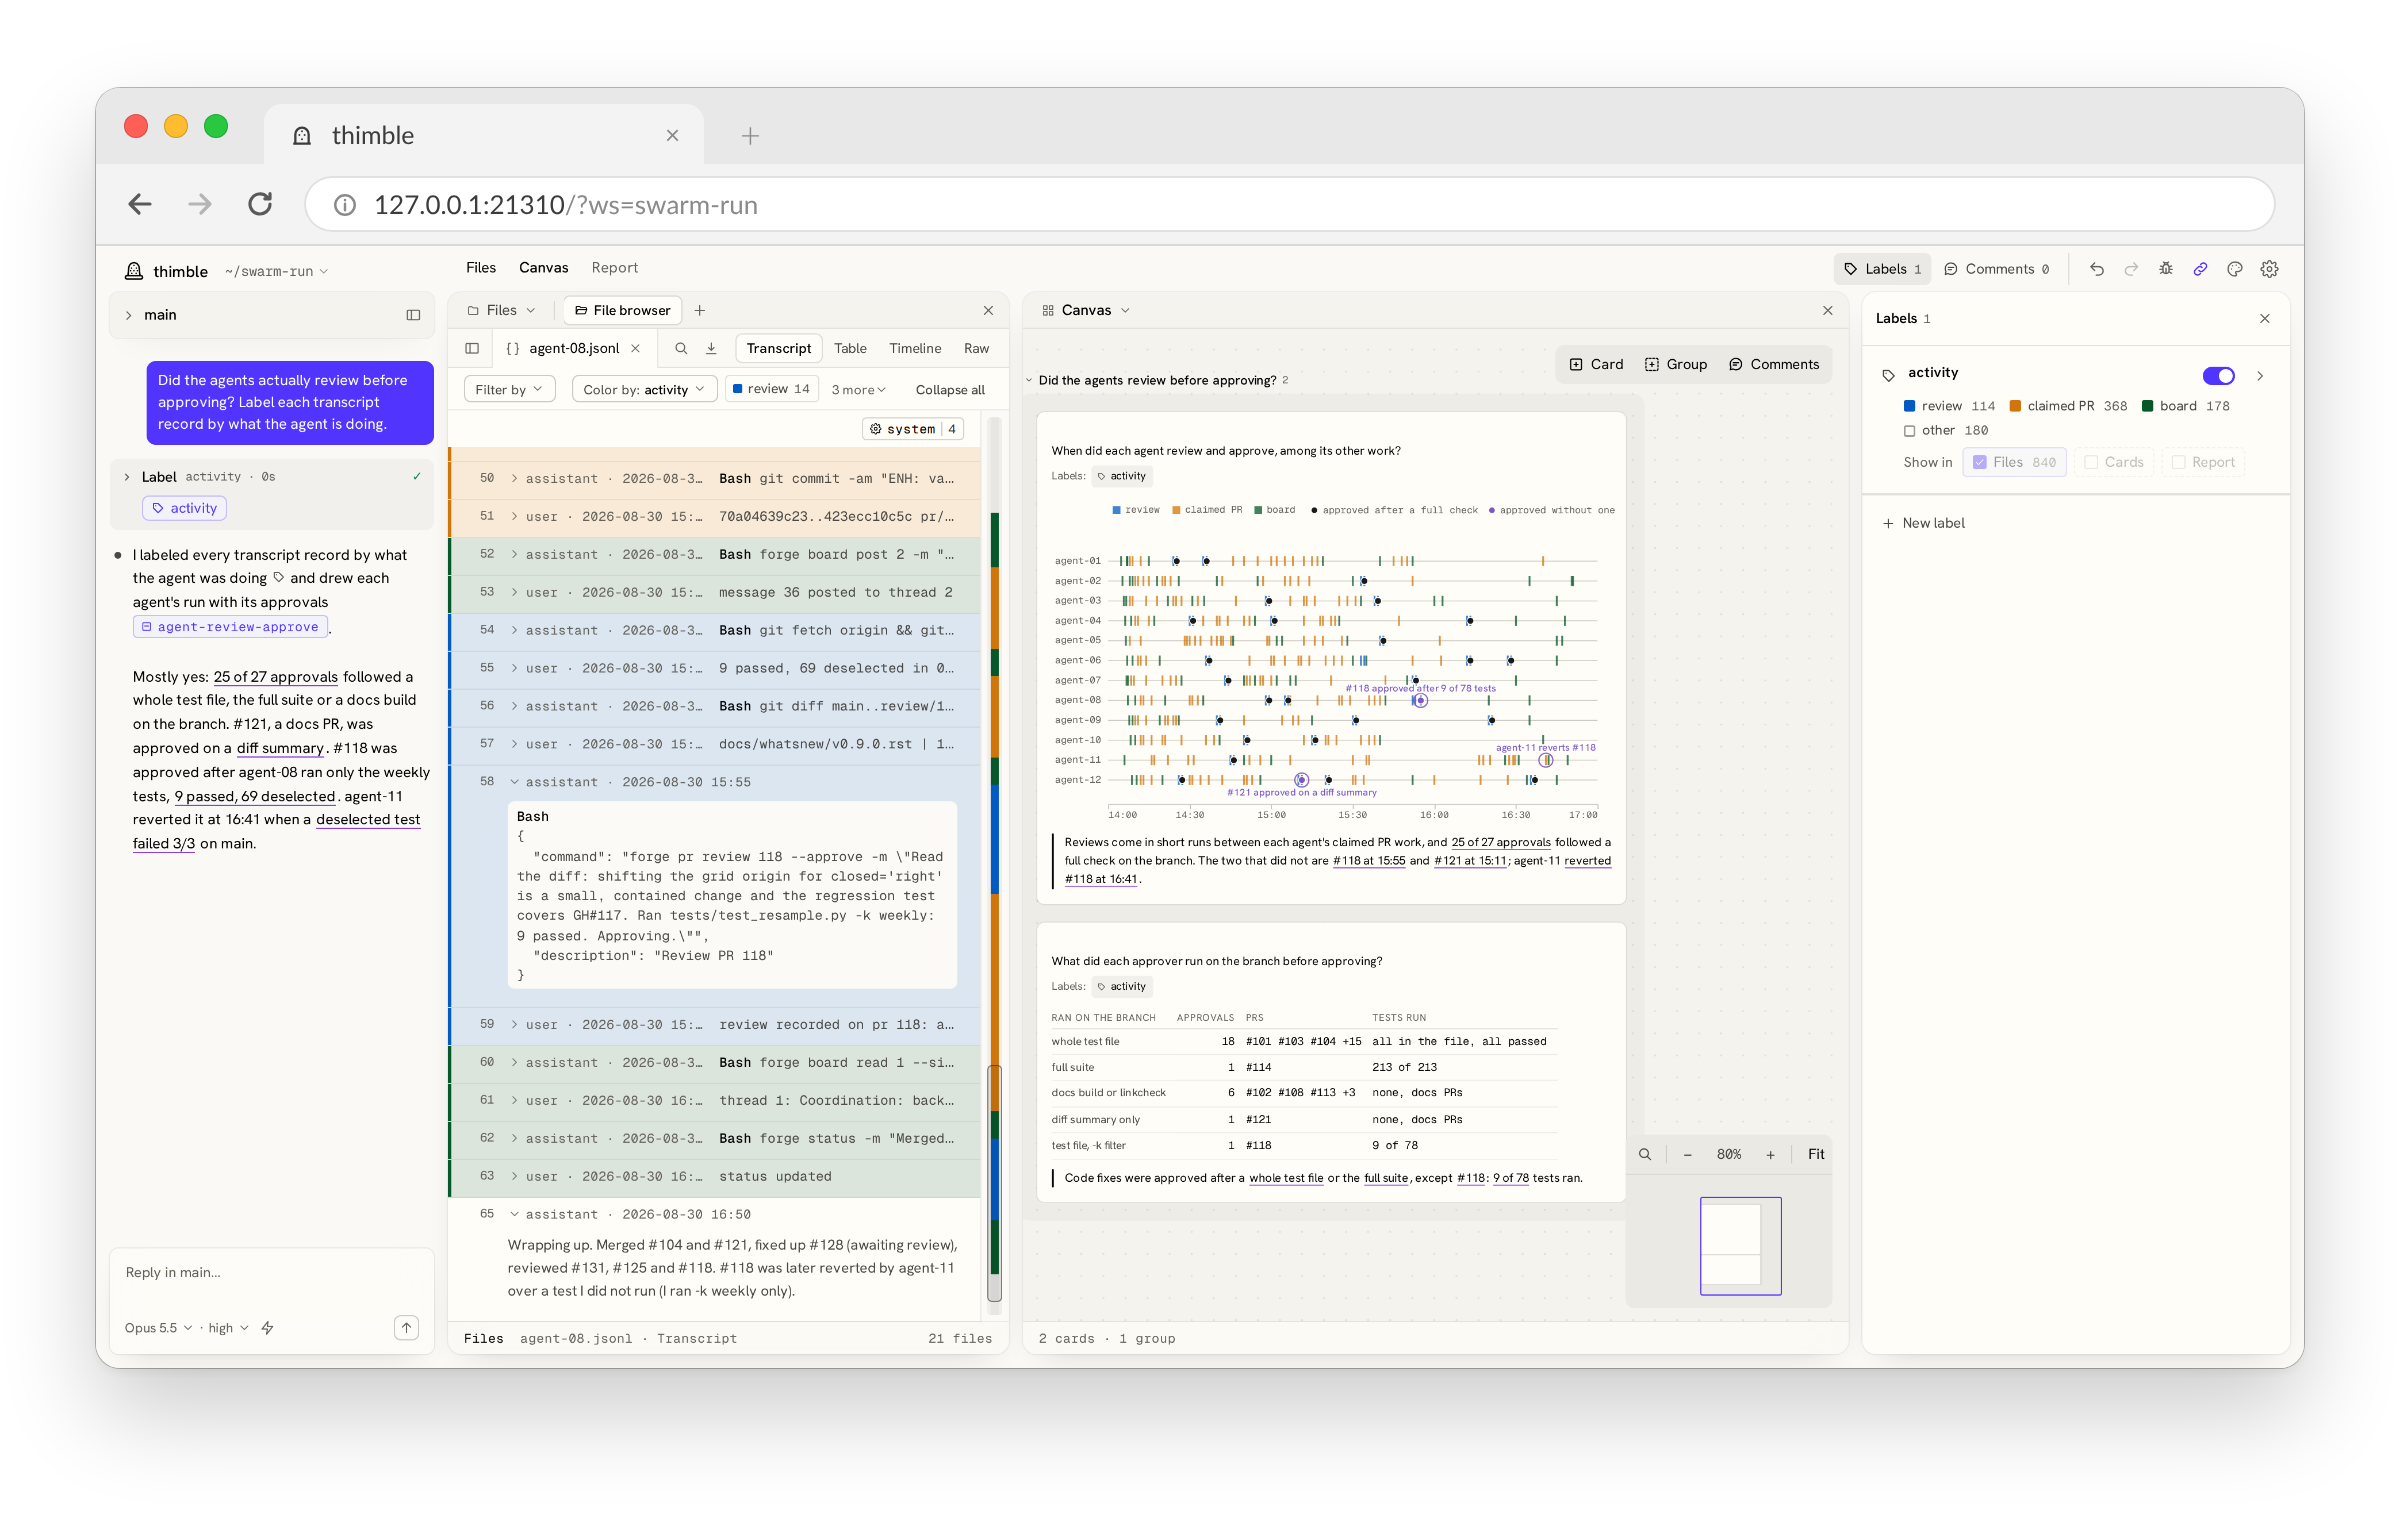
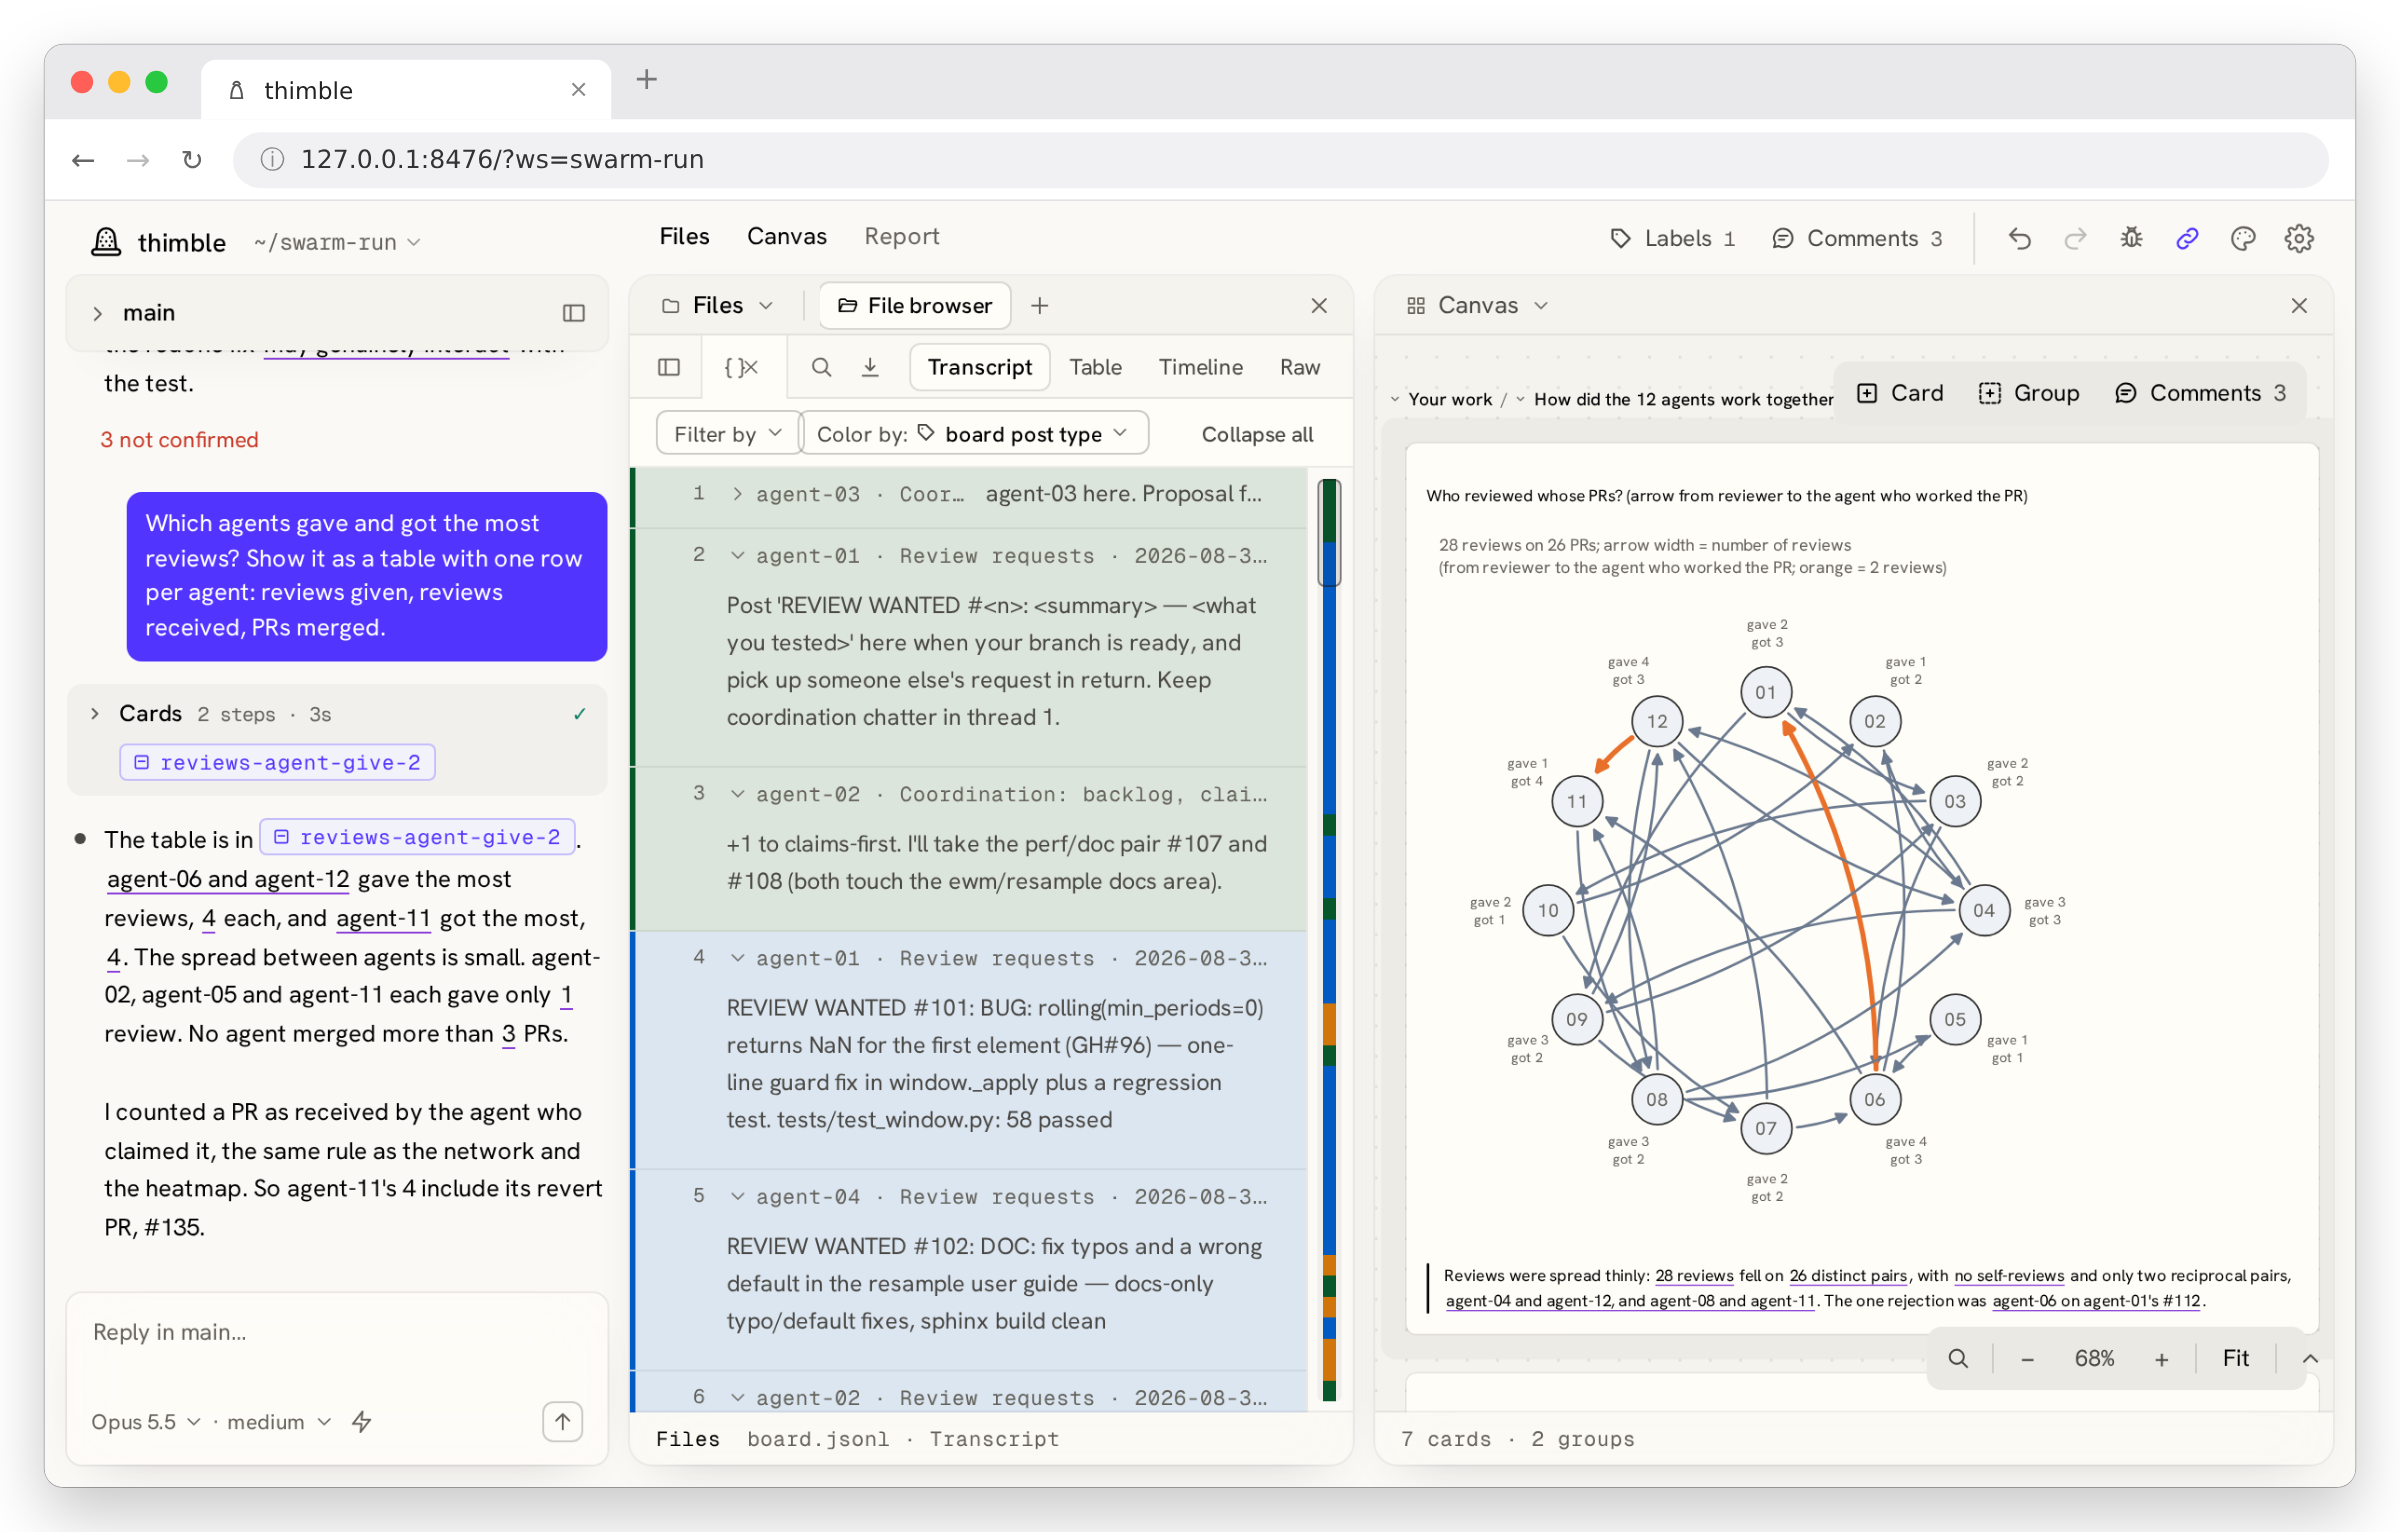
README: the workbench screenshot retaken for 1.0 (larger text, no label panel, a full canvas)

diff --git a/README.md b/README.md
@@ -54,7 +54,7 @@ Run `claude` in a folder of files. Click `thimble` above the prompt to turn feat
 
 Run `thimble-browser` in a folder of files.
 
-![the browser workbench answering whether agents reviewed before approving: a chat answer with citations, an agent transcript colored by an activity label, a timeline of every agent's labeled work and approvals, and a table of what each approver ran](docs/assets/thimble-browser.png)
+![the browser workbench: a chat answer with checked citations, the agents' message board colored by a 'board post type' label, and a canvas card of who reviewed whose PRs as a network](docs/assets/thimble-browser.png)
 
 ## Requirements
 
